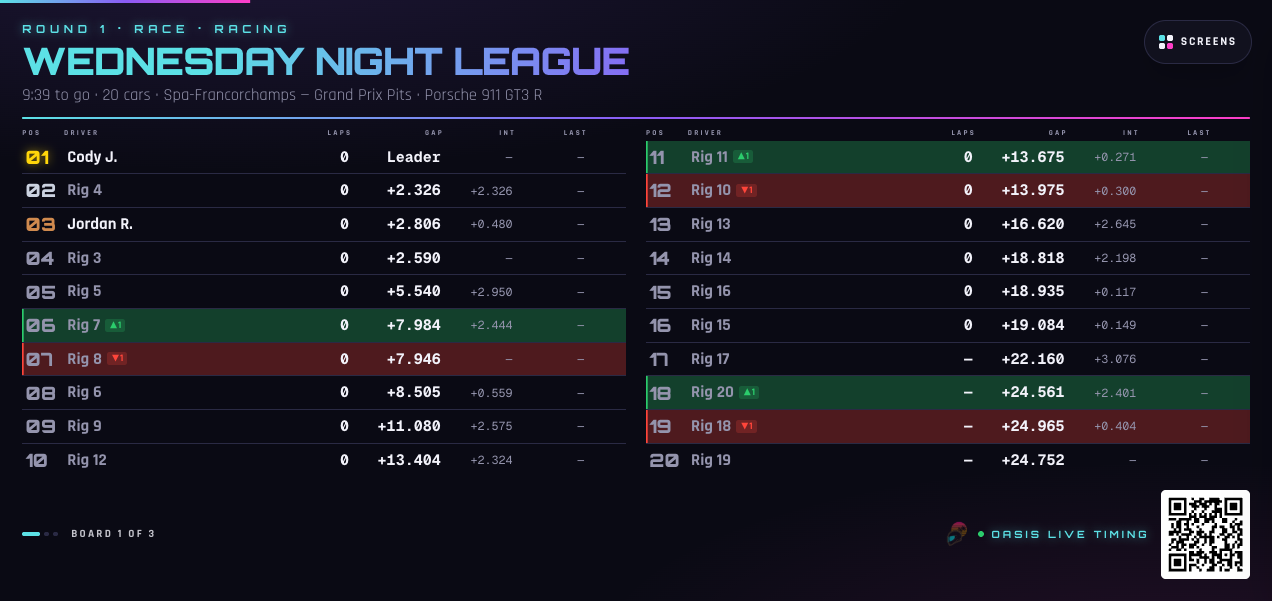
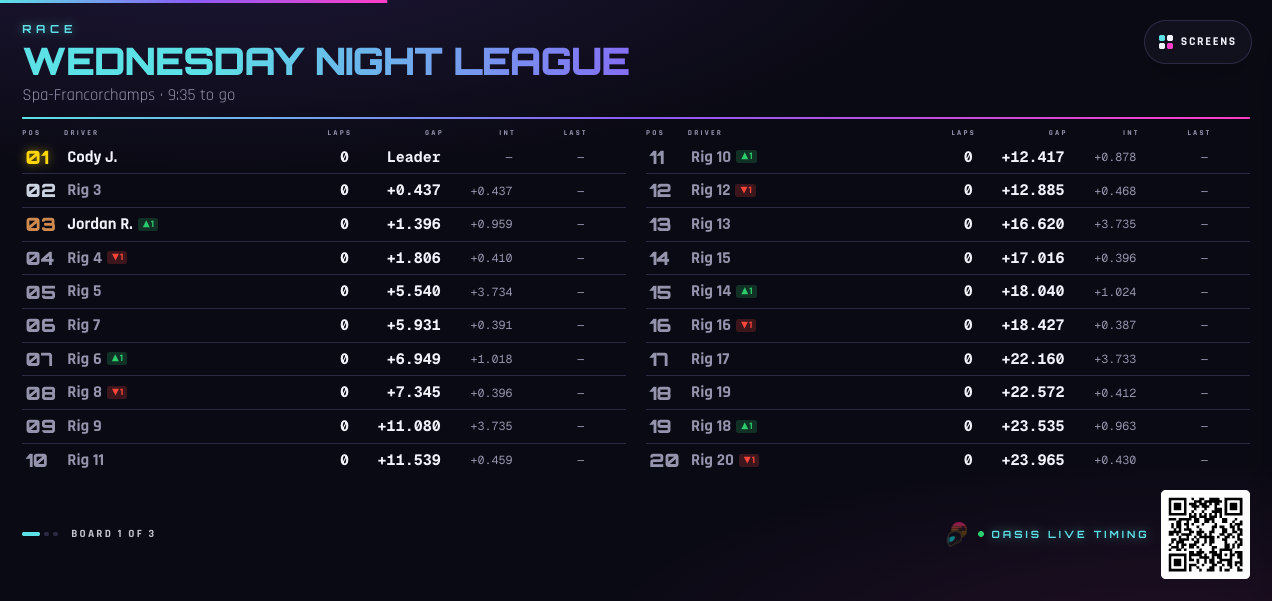
fix(web): strip the wall's race header to "Race", the track and what is left
The owner reviewed the first screenshots (2026-10-01): on the wall's race
and chequered-flag screens the eyebrow said "Round 1 · Race · Racing" and the
line under the title read the time left, the car count and the full combo
with its layout and car. He asked for the eyebrow to say only which half of
the night it is, and for the track alone - no round number, no session state,
no layout, no car, no car count - keeping the time or laps to go. The room
knows the combo, and the running order shows how many cars there are.

The qualifying wall screen and the phone's /league panel are unchanged, as he
asked. Screenshots of the race, the finish and the twenty-car field re-shot
from the fake rigs; npm run tv:check passes on the race screen at three and
twenty cars.

diff --git a/apps/web/src/components/tv/board-types.tsx b/apps/web/src/components/tv/board-types.tsx
@@ -9,7 +9,7 @@ import {
 } from "@/lib/leaderboards";
 import { comboLabel, roundLabel, type LeagueRound, type RoundResult } from "@/lib/league";
 import type { SeasonStanding } from "@/lib/league-scoring";
-import { remainingLabel, sessionStateLabel } from "@/lib/race-board";
+import { remainingLabel } from "@/lib/race-board";
 import { useLiveRace } from "@/components/use-live-race";
 import { venueToday } from "@/lib/venue";
 import { reportingFeedHealth } from "@/lib/tv-feed-health";
@@ -387,18 +387,15 @@ function LeagueBoard({ data, stale, hold }: TvBoardProps<null, LeagueData>) {
   if (live.race?.session) {
     const { session } = live.race;
     return (
+      // The owner's header for the race (2026-10-01): the eyebrow says only
+      // which half of the night this is, and the line under the title names
+      // the track and what is left of the race - no round number, no session
+      // state, no layout, no car, no car count. The room knows the combo, and
+      // the running order says how many cars there are.
       <RaceOrder
-        eyebrow={[tonightsRound && roundLabel(tonightsRound), "Race", sessionStateLabel(session.sessionState)]
-          .filter(Boolean)
-          .join(" · ")}
+        eyebrow="Race"
         title={title}
-        subtitle={[
-          remainingLabel(session),
-          carCount(live.race.rows.length),
-          tonightsRound && comboLabel(tonightsRound),
-        ]
-          .filter(Boolean)
-          .join(" · ")}
+        subtitle={[tonightsRound?.track_name, remainingLabel(session)].filter(Boolean).join(" · ")}
         race={live.race}
         finished={live.finished}
         moves={live.moves}
@@ -456,8 +453,6 @@ const toQualifyingEntry = (row: RoundResult): ArcadeEntry => ({
   detail: `${row.lap_count} ${row.lap_count === 1 ? "lap" : "laps"}`,
   timeMs: row.best_lap_ms ?? undefined,
 });
-
-const carCount = (n: number) => `${n} ${n === 1 ? "car" : "cars"}`;
 
 const roundCount = (n: number) => `${n} round${n === 1 ? "" : "s"}`;
 

diff --git a/apps/web/src/components/tv/race-board.test.tsx b/apps/web/src/components/tv/race-board.test.tsx
@@ -15,7 +15,7 @@ const render = (
 ) =>
   renderToStaticMarkup(
     <RaceOrder
-      eyebrow="Round 1 · Race · Racing"
+      eyebrow="Race"
       title="Wednesday Night League"
       race={race}
       finished={false}
@@ -116,9 +116,9 @@ describe("RaceOrder", () => {
   });
 
   it("says what is on screen in the header and dims when held", () => {
-    const html = render(undefined, { subtitle: "3:24 to go · 3 cars", stale: true });
-    expect(html).toContain("Round 1 · Race · Racing");
-    expect(html).toContain("3:24 to go · 3 cars");
+    const html = render(undefined, { subtitle: "Spa-Francorchamps · 3:24 to go", stale: true });
+    expect(html).toContain(">Race<");
+    expect(html).toContain("Spa-Francorchamps · 3:24 to go");
     expect(html).toContain("opacity-70");
   });
 });

diff --git a/docs/live-race.md b/docs/live-race.md
@@ -131,8 +131,11 @@ phone agree by construction:
 - Rows are numbered by `place`. A row that just changed place flashes once
   (green up, red down) and carries ▲n / ▼n beside the name for a few seconds.
   A `stale` rig is dimmed where it was; a rig with nobody signed in reads
-  `Rig N` in the muted colour; a car on pit road carries a PIT chip. The header
-  says the session's state and the laps or time left.
+  `Rig N` in the muted colour; a car on pit road carries a PIT chip. On the
+  wall the header says only "Race", then the track and the laps or time left:
+  the owner asked for no round number, session state, layout, car or car
+  count up there, since the room knows the combo and the order shows the
+  field. The phone panel keeps the session's state and the car count.
 - After the chequered flag the **finishing order stays up for one minute**,
   counted from the first report that showed the flag, still updating as cars
   cross the line, then the standings come back even if the rigs are still
